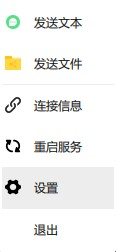
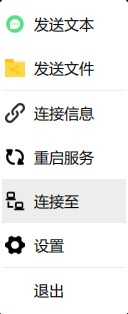
update markdown

diff --git a/README.md b/README.md
@@ -7,7 +7,12 @@ Windows平台与安卓在局域网下互传、发送文本、文件的小工具
 
 ***
 
+# 功能
 
+- PC与Android设备互传
+- PC与PC互传
+
+---
 
 ## 开发平台与工具
 
@@ -70,9 +75,10 @@ Android端是基于Android Studio开发的app
 
 - **发送文本**：点击会自动发送剪贴板里的内容，Android端的剪切板上就会被设置上相同的内容
 - **发送文件**：点击后选择文件发送
-- **本机IP**：查看托盘信息的完整版（附带IP信息
+- **连接信息**：查看托盘信息的完整版（附带IP信息
 - **重启服务**：软件不好使的时候试试哦，有奇效（依据的是[鸵鸟算法](https://baike.baidu.com/item/%E9%B8%B5%E9%B8%9F%E7%AE%97%E6%B3%95/4342932?fr=aladdin)
-- **显示主界面**：显示设置界面
+- **连接至**：连接至其他PC
+- **设置**：显示设置界面
 - **退出**：安详的退出了
 
 ***
